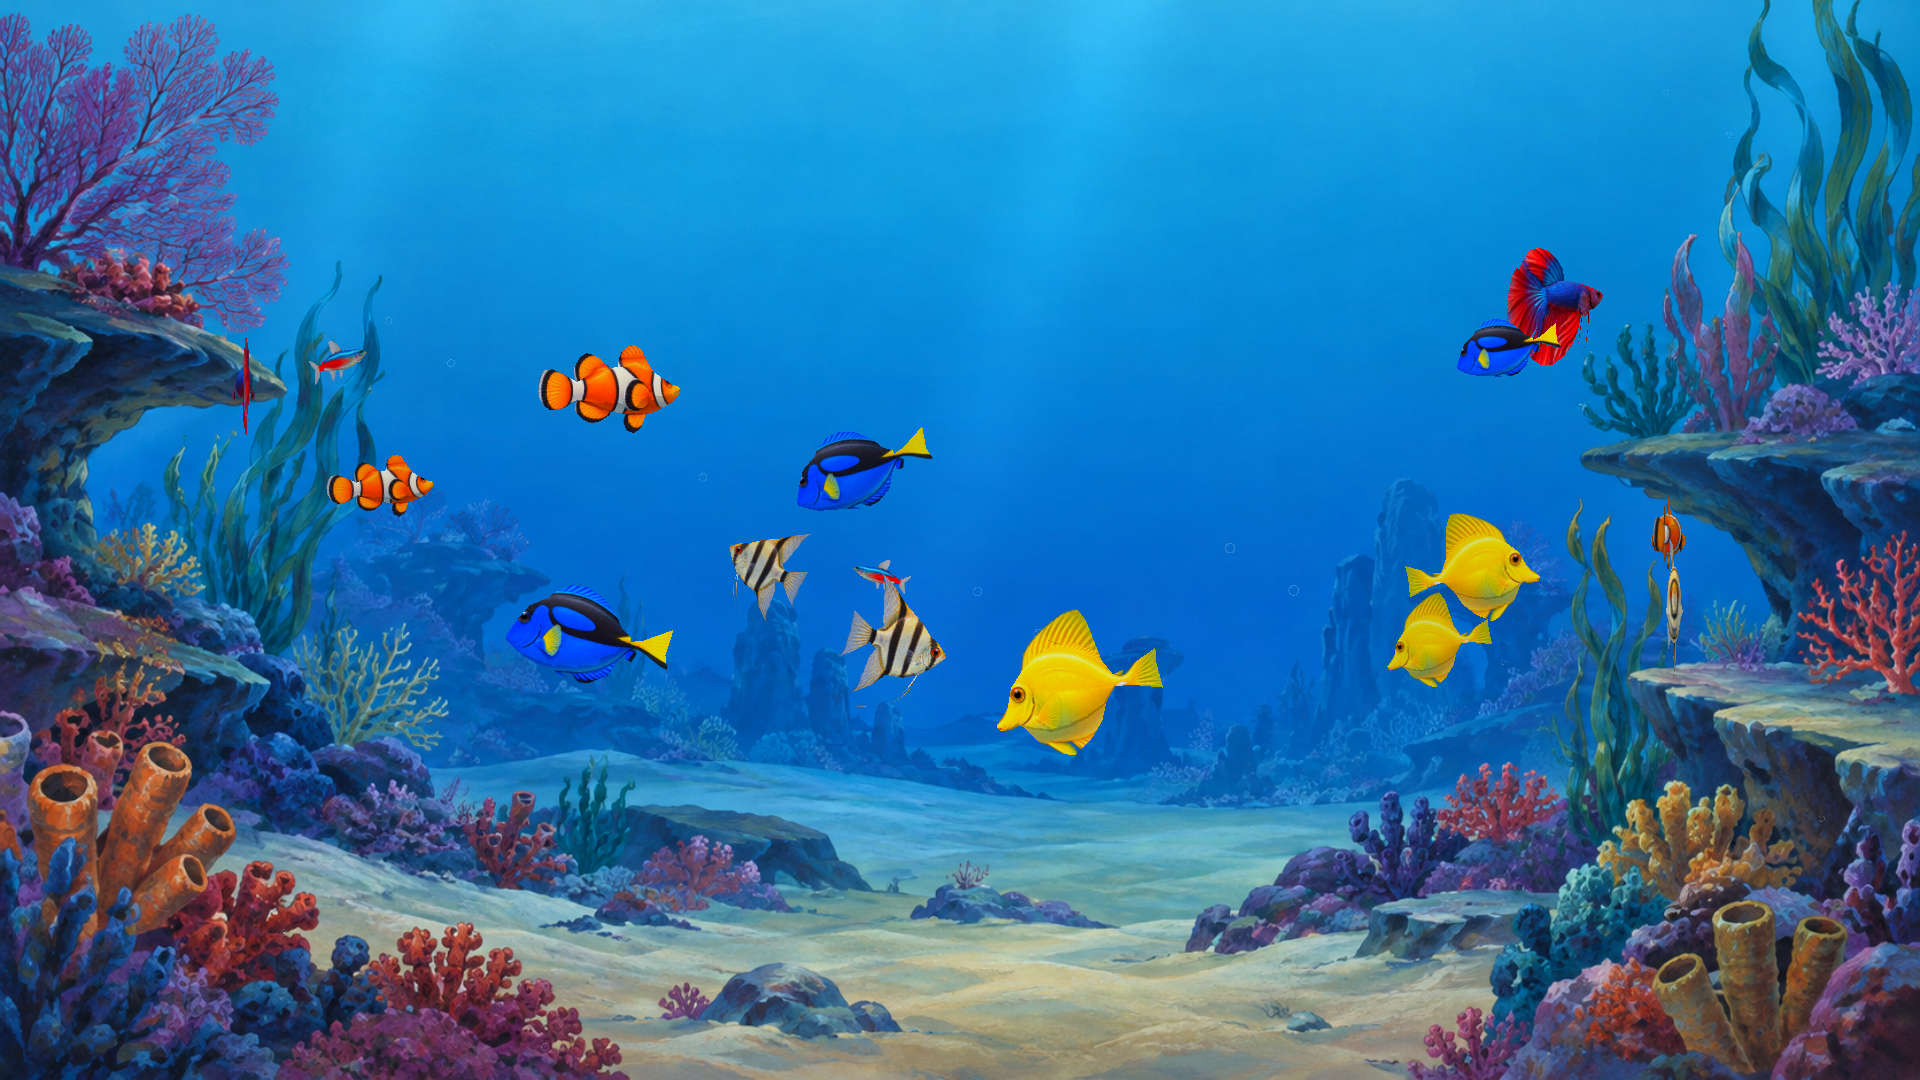
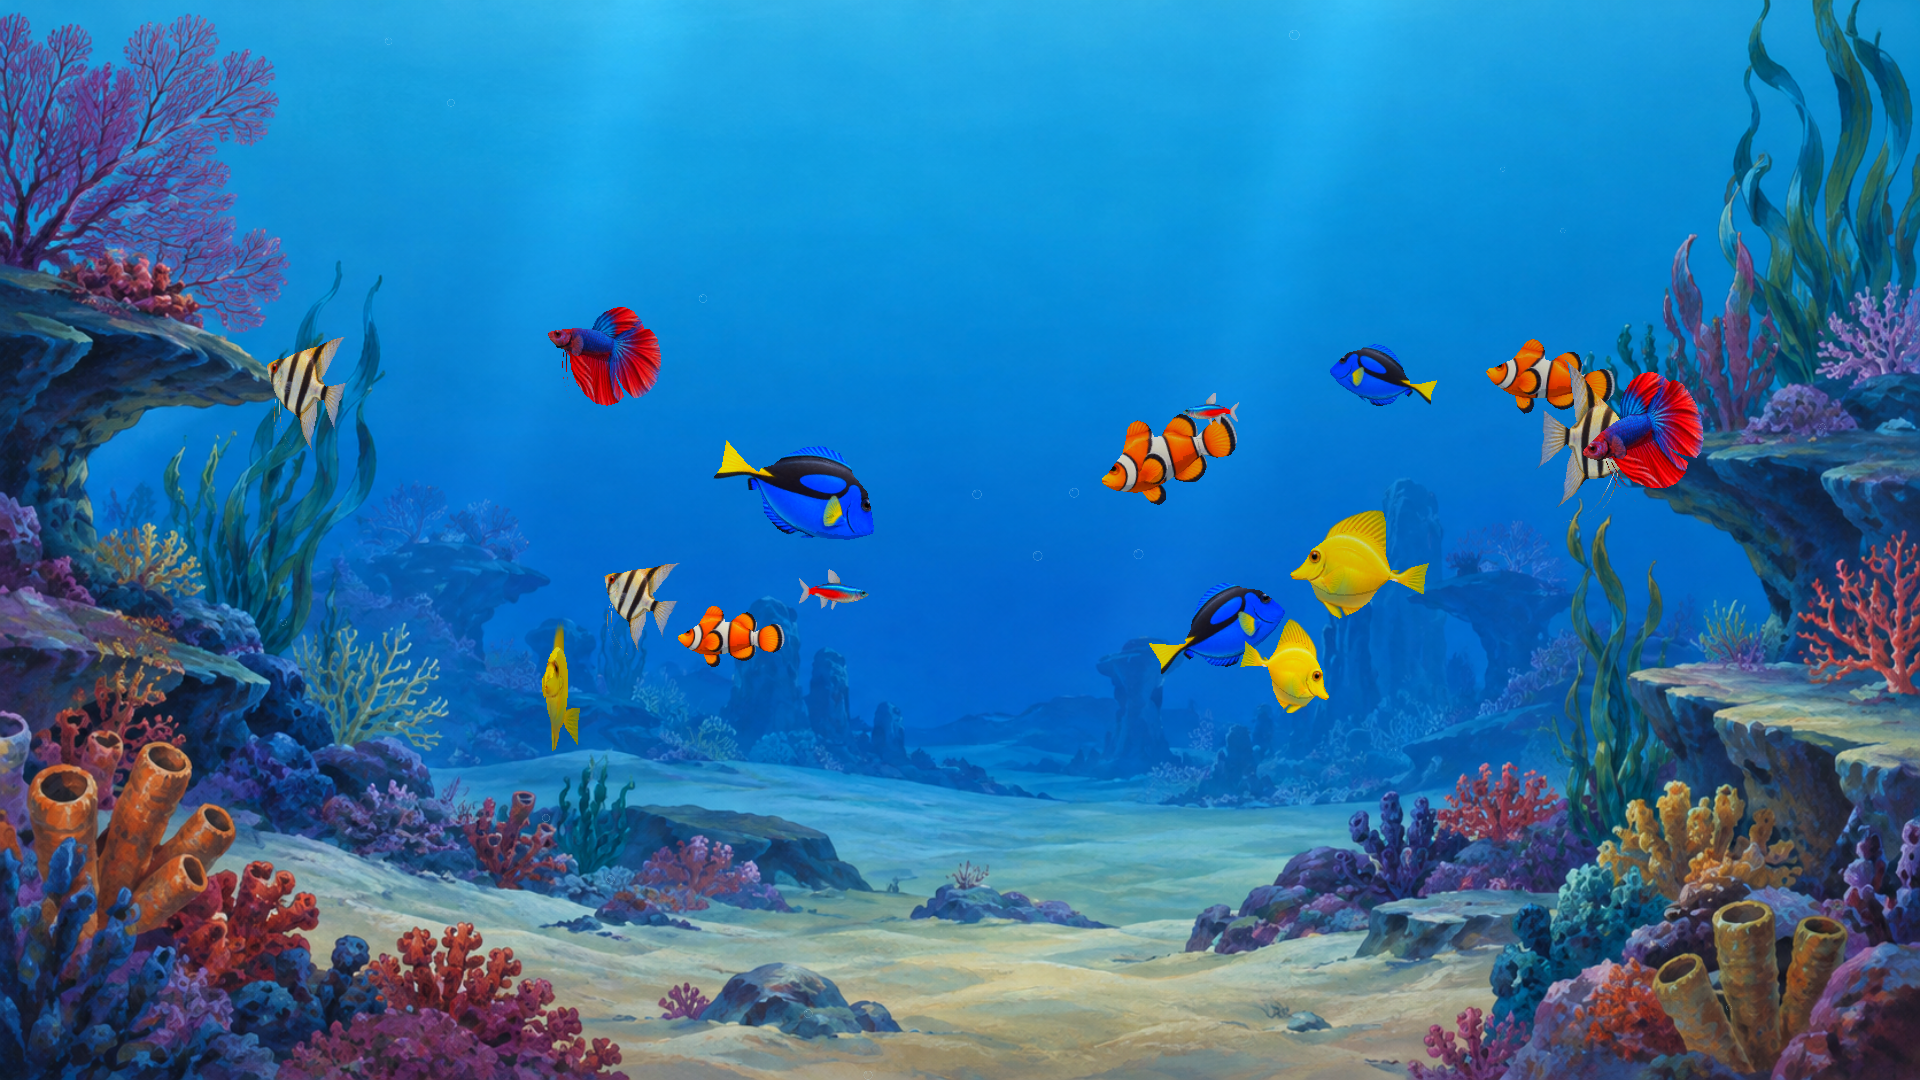
Refresh gallery from the signed Aquarium 1.4 candidate

diff --git a/docs/VERIFICATION.md b/docs/VERIFICATION.md
@@ -27,8 +27,12 @@ below apply to the measured candidate, not every later asset revision.
   1,786 frames. Logged intervals stayed around 29.4 to 30 FPS, with one 28.386 FPS
   interval. Shark and whale captures occurred; no dolphin capture was observed
   during that recording. Capture resolution was 1280x720, rendering was 1920x1080.
-- A pre-release renderer candidate was captured in all six looks, settings, and original
-  footage Day and Night modes. Natural and painted humpbacks were also recorded
+- The frozen signed 1.4.0 candidate, SHA-256
[1 lines of base64/hex data omitted]
+  was captured in all six looks, settings, and original footage Day and Night modes.
+  These nine gallery images use the actual 1920x1080 emulator surface. The selected
+  Dream, enabled state and other three screensaver settings remained unchanged;
+  appearance, mode and Day / Night settings were restored before returning Home. Natural and painted humpbacks were also recorded
   through continuous turns and checked from the opposite side. These checks are
   part of visual review and do not establish final user acceptance.
 - Host regressions cover independent wandering, changes of direction and depth,

diff --git a/README.md b/README.md
@@ -240,7 +240,7 @@ change the animals or scenery inside recorded footage.
 
 ## Screenshots
 
-Current signed build, captured on a Google TV emulator at an actual 1920x1080
+Version 1.4.0, captured from the signed release candidate on a Google TV emulator at an actual 1920x1080
 surface. Physical Fire TV 3840x2160 composition and performance verification of
 the new volume renderer remain pending. See [Verification](docs/VERIFICATION.md).
 
